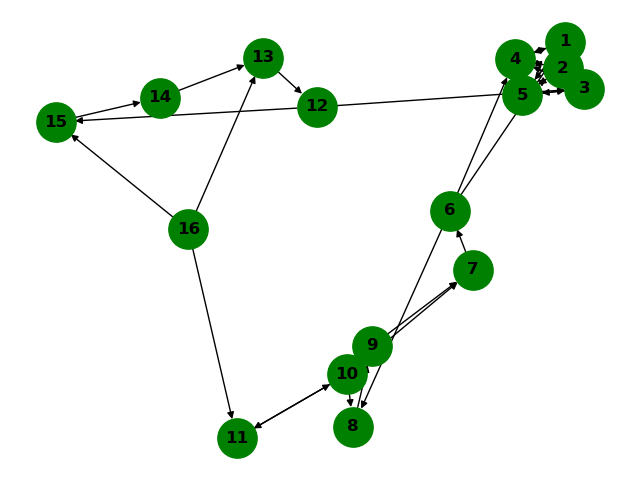
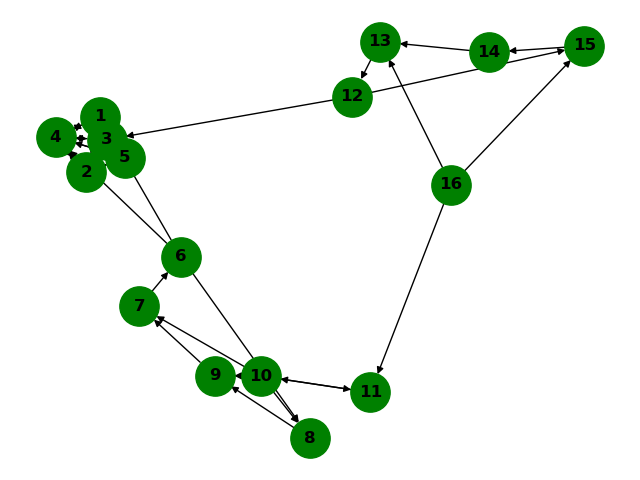
stronglu connected components without counting trees in the forest

Changed region(s): [[0.0312, 0.0312, 0.9688, 0.9688], [0.3125, 0.3438, 0.3438, 0.4062]]

diff --git a/Graph-Algorithms/Introduction/src/Algorithms.cpp b/Graph-Algorithms/Introduction/src/Algorithms.cpp
@@ -114,3 +114,20 @@ std::list<std::pair<int, int>> topologicalSort(DirectedGraph* dg) {\
     }
     return sortedList;
 }
+void sortedDFS(DirectedGraph* dg, std::list<std::pair<int,int>> sortedVertices) {
+    for (auto item : sortedVertices) {
+        std::cout << "[" << item.first << "   " << item.second << "]" << " --> ";
+        if (dg->getVertex(item.first)->color == 'w') {
+            DFSvisit(dg->getVertex(item.first), dg);
+        }
+    }
+}
+DirectedGraph* stronglyConnectedComponents(DirectedGraph* dg) {
+    auto transposedDirectedGraph = dg->transpose();
+    auto sortedVerticesList = topologicalSort(dg);
+    sortedDFS(transposedDirectedGraph, sortedVerticesList);
+    return transposedDirectedGraph;
+}
+void printForest(AbstractGraph* ag) {
+
+}

diff --git a/Graph-Algorithms/Introduction/src/TestPrinter.py b/Graph-Algorithms/Introduction/src/TestPrinter.py
@@ -24,10 +24,10 @@ def d(dirtitle, direction):
 
 if __name__ == "__main__":
     G=d(sys.argv[2], 'D')
-    if sys.argv[1] == 'D':
-        nx.draw(G, with_labels=True, font_weight='bold', node_color='green', node_size=800, pos=nx.spring_layout(G))
+    if sys.argv[3] == 'shell':
+        nx.draw_shell(G, with_labels=True, font_weight='bold', node_color='green', node_size=800)
     else:
-        nx.draw(G, with_labels=True, font_weight='bold', node_color='green')
+        nx.draw(G, with_labels=True, font_weight='bold', node_color='green', node_size=800)
 
     print('plot done')
     plt.savefig('../../plots/' + sys.argv[2] + '_test.png')

diff --git a/Graph-Algorithms/Introduction/src/main.cpp b/Graph-Algorithms/Introduction/src/main.cpp
@@ -158,6 +158,11 @@ int main(int argc, char** argv) {
             auto gr = GraphReader(directory);
             gr.initialCheck();
             DirectedGraph* dg = gr.buildDirectedGraph();
+            dg->saveToCSV("dgforcomps");
+            system("python ../../src/TestPrinter.py D dgforcomps shell");
+            auto result = stronglyConnectedComponents(dg);
+            result->saveTreeToCSV("comps");
+            system("python ../../src/TestPrinter.py D comps shell");
             //TODO strong coherent component
         }
         break;

diff --git a/Graph-Algorithms/Introduction/src/Algorithms.h b/Graph-Algorithms/Introduction/src/Algorithms.h
@@ -14,6 +14,9 @@ void DFSvisit(Vertex* source, AbstractGraph* g);
 void printPath(Vertex* source, Vertex* destination);
 std::list<std::pair<int, int>> topologicalSort(DirectedGraph* dg);
 bool topoDFSVisit(Vertex* source, DirectedGraph* dg, std::list<std::pair<int, int>>& sortedList);
+void sortedDFS(DirectedGraph* dg, std::list<std::pair<int,int>> sortedVertices);
+DirectedGraph* stronglyConnectedComponents(DirectedGraph* dg);
+void printForest(AbstractGraph* ag);
 //94855167282784
 //47239281841184
 
